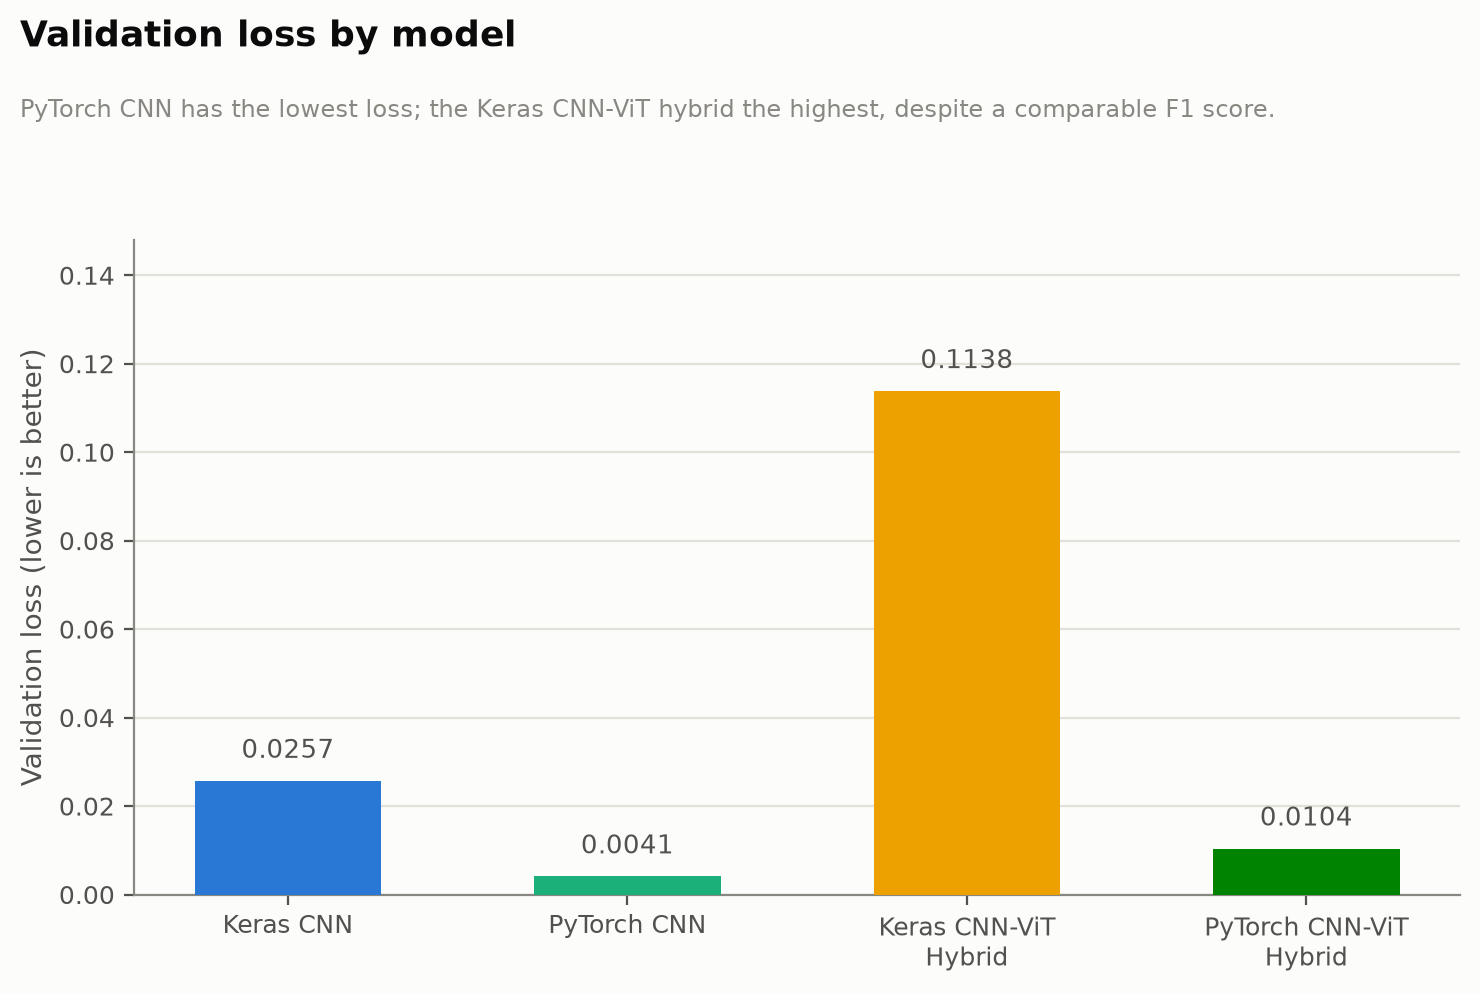
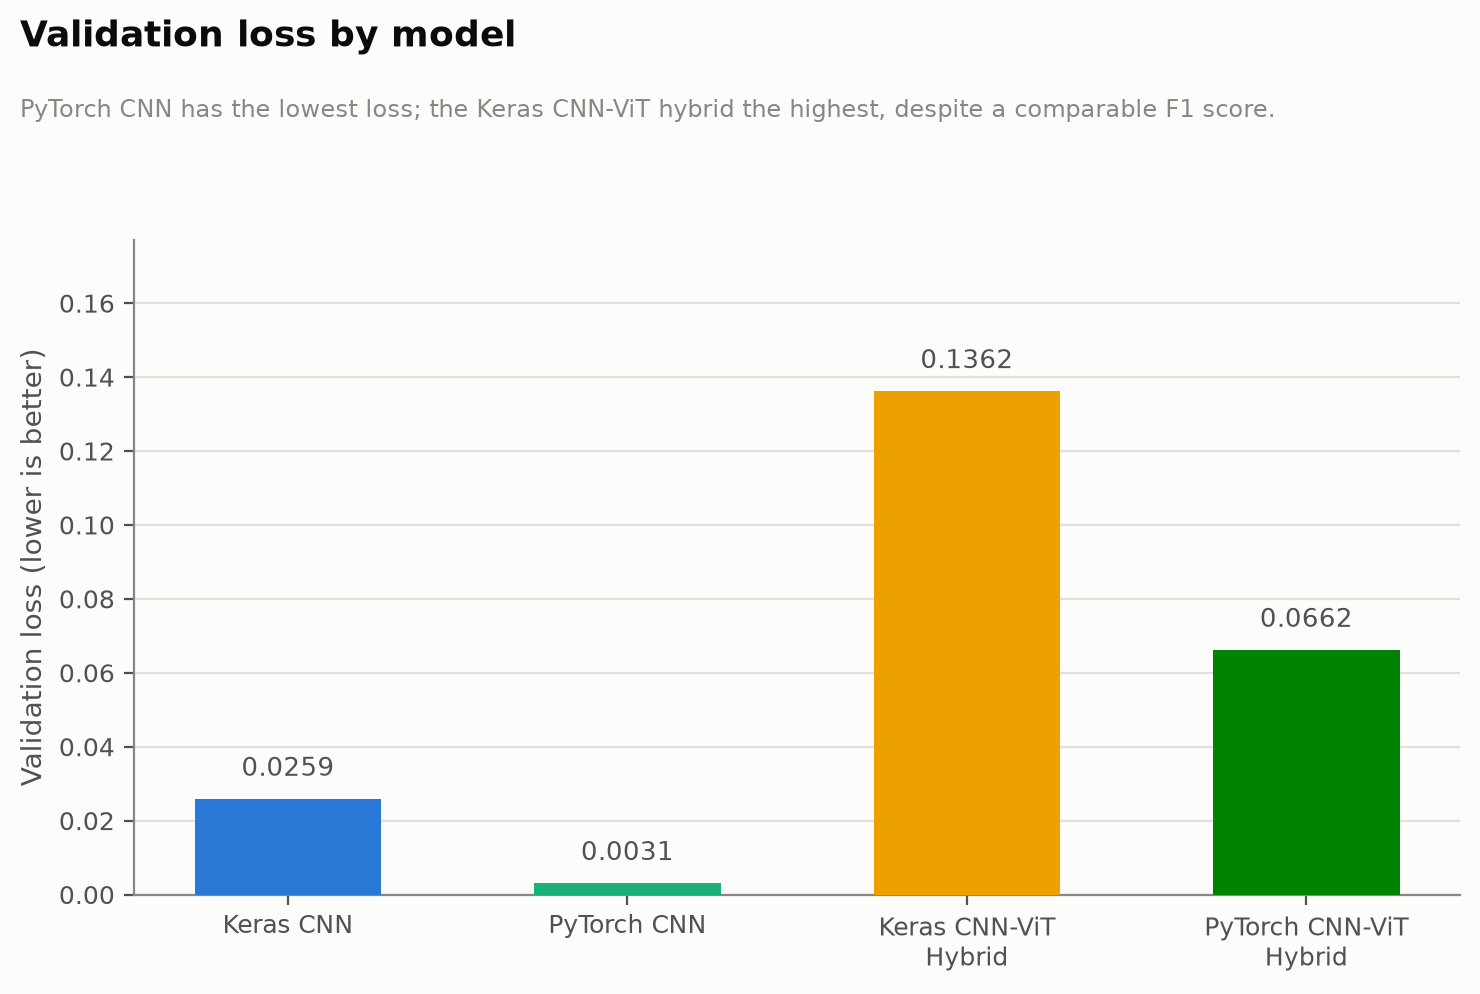
cnn-vit-satellite-image-classifier: update results from genuine retrain

diff --git a/cnn-vit-satellite-image-classifier/reports/generate_plots.py b/cnn-vit-satellite-image-classifier/reports/generate_plots.py
@@ -32,12 +32,12 @@ THEMES = {
 # held-out validation split (1,200 images, 20% of images_dataSAT).
 MODELS = ["Keras CNN", "PyTorch CNN", "Keras CNN-ViT\nHybrid", "PyTorch CNN-ViT\nHybrid"]
 METRICS = {
-    "Accuracy": [0.9933, 0.9983, 0.9942, 0.9967],
-    "Precision": [1.0000, 0.9965, 0.9966, 0.9983],
-    "Recall": [0.9867, 1.0000, 0.9917, 0.9950],
-    "F1 Score": [0.9933, 0.9983, 0.9942, 0.9967],
+    "Accuracy": [0.9925, 0.9992, 0.9917, 0.9750],
+    "Precision": [1.0000, 0.9983, 1.0000, 0.9539],
+    "Recall": [0.9850, 1.0000, 0.9833, 0.9983],
+    "F1 Score": [0.9924, 0.9991, 0.9916, 0.9756],
 }
-LOSS = [0.0257, 0.0041, 0.1138, 0.0104]
+LOSS = [0.0259, 0.0031, 0.1362, 0.0662]
 
 
 def style_axes(ax, t):
@@ -80,7 +80,8 @@ def plot_metric_comparison(theme_name):
     ax.set_xticks(x)
     ax.set_xticklabels(MODELS)
     ax.set_ylabel("Score (held-out validation split)")
-    ax.set_ylim(0.97, 1.005)
+    y_min = min(v for vals in METRICS.values() for v in vals)
+    ax.set_ylim(max(0.0, y_min - 0.02), 1.005)
     add_title(
         fig,
         "Model comparison: accuracy, precision, recall, F1",

diff --git a/cnn-vit-satellite-image-classifier/README.md b/cnn-vit-satellite-image-classifier/README.md
@@ -28,6 +28,7 @@ Binary classification of satellite image tiles as **agricultural** or **non-agri
 - Parallel Keras and PyTorch implementations for data pipelines, CNN baselines, and CNN-ViT hybrids
 - Cross-framework evaluation using accuracy, precision, recall, F1, ROC-AUC, loss, and confusion matrices
 - Held-out validation methodology: an earlier version of this project scored models against the full training set; the evaluation pipeline was corrected to score only each model's untouched validation split (see [Results](#results))
+- All four models are trained from scratch end-to-end (no pretrained weights downloaded from IBM's course storage at any stage)
 - FastAPI inference server serving all four models via a `?model=` query parameter, with Docker Compose for one-command deployment
 
 ## Repository Structure
@@ -132,26 +133,26 @@ flowchart LR
 
 | Model | Accuracy | Precision | Recall | F1 Score | ROC-AUC |
 |---|---:|---:|---:|---:|---:|
-| Keras CNN | 0.9933 | 1.0000 | 0.9867 | 0.9933 | 1.0000 |
-| PyTorch CNN | 0.9983 | 0.9965 | 1.0000 | 0.9983 | 1.0000 |
-| Keras CNN-ViT Hybrid | 0.9942 | 0.9966 | 0.9917 | 0.9942 | 0.9991 |
-| PyTorch CNN-ViT Hybrid | 0.9967 | 0.9983 | 0.9950 | 0.9967 | 0.9999 |
+| Keras CNN | 0.9925 | 1.0000 | 0.9850 | 0.9924 | 0.9999 |
+| PyTorch CNN | 0.9992 | 0.9983 | 1.0000 | 0.9991 | 1.0000 |
+| Keras CNN-ViT Hybrid | 0.9917 | 1.0000 | 0.9833 | 0.9916 | 0.9834 |
+| PyTorch CNN-ViT Hybrid | 0.9750 | 0.9539 | 0.9983 | 0.9756 | 0.9997 |
 
-The PyTorch models edged out their Keras counterparts in these runs, with the PyTorch CNN-ViT hybrid reaching 99.67% held-out accuracy.
+All four models were trained from scratch end-to-end on a GCP T4 GPU VM, with no pretrained weights downloaded from IBM's course storage at any stage. The PyTorch CNN baseline was the strongest model overall (99.92% held-out accuracy); the PyTorch CNN-ViT hybrid was the weakest (97.50%), trailing its own CNN backbone by over two points.
 
 <picture>
   <source media="(prefers-color-scheme: dark)" srcset="reports/model_metric_comparison_dark.png">
-  <img src="reports/model_metric_comparison_light.png" alt="Grouped bar chart of accuracy, precision, recall, and F1 score for all four models, y-axis zoomed to 0.97-1.005. PyTorch CNN and PyTorch CNN-ViT hybrid have the most balanced high scores; Keras CNN has the lowest recall (98.67%) despite perfect precision.">
+  <img src="reports/model_metric_comparison_light.png" alt="Grouped bar chart of accuracy, precision, recall, and F1 score for all four models. PyTorch CNN has the most balanced high scores; PyTorch CNN-ViT hybrid has the lowest precision (95.39%) and lowest accuracy/F1 of the four models.">
 </picture>
 
-All four models cluster tightly between 98.7% and 100% on every metric. The clearest separation is recall: Keras CNN misses the most positives (98.67%) despite perfect precision (100%), while PyTorch CNN has perfect recall (100%) with slightly lower precision (99.65%) -- a precision/recall trade-off in opposite directions between the two frameworks' CNN baselines.
+The CNN baselines cluster tightly at 99.2%-99.9% on every metric, but the hybrids diverge more once both are genuinely retrained: the Keras hybrid nearly matches its own CNN backbone, while the PyTorch hybrid falls noticeably behind on precision and accuracy. Both hybrids only train a randomly-initialized transformer head for a handful of epochs (3 Keras, 5 PyTorch) on top of a frozen CNN backbone, so this isn't a fully-converged comparison -- it's an honest look at what a small transfer-learning budget buys you over the CNN baseline alone.
 
 <picture>
   <source media="(prefers-color-scheme: dark)" srcset="reports/model_loss_comparison_dark.png">
-  <img src="reports/model_loss_comparison_light.png" alt="Bar chart of validation loss per model. PyTorch CNN has the lowest loss (0.0041), followed by PyTorch CNN-ViT hybrid (0.0104) and Keras CNN (0.0257); Keras CNN-ViT hybrid has the highest loss by a wide margin (0.1138).">
+  <img src="reports/model_loss_comparison_light.png" alt="Bar chart of validation loss per model. PyTorch CNN has the lowest loss (0.0031); Keras CNN-ViT hybrid has the highest loss by a wide margin (0.1362), more than double the PyTorch CNN-ViT hybrid's loss (0.0662) despite scoring higher on accuracy.">
 </picture>
 
-Loss tells a different story than the accuracy-family metrics: the Keras CNN-ViT hybrid has the highest validation loss (0.1138) by more than 4x the next-highest model, despite scoring within 0.4 points of accuracy of the others. Loss reflects prediction confidence, not just the final classification decision, so this model's correct predictions are apparently made with less margin than the other three.
+Loss tells a different story than the accuracy-family metrics: the Keras CNN-ViT hybrid has the highest validation loss (0.1362) even though its accuracy (99.17%) beats the PyTorch hybrid's (97.50%). Loss reflects prediction confidence, not just the final classification decision, so the Keras hybrid's correct predictions are apparently made with less margin than its accuracy alone suggests.
 
 > **Methodology note:** These numbers come from evaluating each model on its held-out validation split only (1,200 images, 20% of `images_dataSAT`) — the same split reserved during training and never seen by that model's weights. See [`reports/results_summary.md`](reports/results_summary.md) for the full writeup, including how that split is reconstructed and an earlier methodology issue (full-dataset evaluation leaking training images into the metrics) that this corrects.
 
@@ -228,7 +229,7 @@ Tests: `pip install -r serve/requirements.txt pytest && pytest tests/`
 
 ## Project Background
 
-This project began as an IBM/Coursera deep learning capstone sequence. It has since been reorganized into a clear Python workflow with documented results, reusable helper modules, and proper handling of large data and model artifacts — including catching and fixing a data-leakage bug in the original evaluation methodology (see [Results](#results)).
+This project began as an IBM/Coursera deep learning capstone sequence. It has since been reorganized into a clear Python workflow with documented results, reusable helper modules, and proper handling of large data and model artifacts — including catching and fixing a data-leakage bug in the original evaluation methodology (see [Results](#results)), and replacing every pretrained-checkpoint download from IBM's course storage with a genuine from-scratch training run (all four models were retrained end-to-end on a GCP T4 GPU VM).
 
 ## Future Work
 

diff --git a/cnn-vit-satellite-image-classifier/reports/results_summary.md b/cnn-vit-satellite-image-classifier/reports/results_summary.md
@@ -15,18 +15,18 @@ Classify satellite image tiles into agricultural and non-agricultural land categ
 
 | Model | Accuracy | Precision | Recall | F1 Score | ROC-AUC | Loss |
 |---|---:|---:|---:|---:|---:|---:|
-| Keras CNN | 0.9933 | 1.0000 | 0.9867 | 0.9933 | 1.0000 | 0.0257 |
-| PyTorch CNN | 0.9983 | 0.9965 | 1.0000 | 0.9983 | 1.0000 | 0.0041 |
-| Keras CNN-ViT Hybrid | 0.9942 | 0.9966 | 0.9917 | 0.9942 | 0.9991 | 0.1138 |
-| PyTorch CNN-ViT Hybrid | 0.9967 | 0.9983 | 0.9950 | 0.9967 | 0.9999 | 0.0104 |
+| Keras CNN | 0.9925 | 1.0000 | 0.9850 | 0.9924 | 0.9999 | 0.0259 |
+| PyTorch CNN | 0.9992 | 0.9983 | 1.0000 | 0.9991 | 1.0000 | 0.0031 |
+| Keras CNN-ViT Hybrid | 0.9917 | 1.0000 | 0.9833 | 0.9916 | 0.9834 | 0.1362 |
+| PyTorch CNN-ViT Hybrid | 0.9750 | 0.9539 | 0.9983 | 0.9756 | 0.9997 | 0.0662 |
 
-> **Methodology note:** These numbers come from evaluating each model on its held-out validation split only (1,200 images, 20% of `images_dataSAT`) — the same split reserved during training and never seen by that model's weights. `scripts/06_keras_vs_pytorch_cnn_comparison.py` and `scripts/09_final_cnn_vit_evaluation.py` reconstruct this split using the exact seed/`validation_split` parameters from the corresponding training script (`04`, `05`, `07`, `08`), so no training image is re-scored. Earlier versions of this table evaluated over the full 6,000-image dataset, which leaked training data into the metrics — the corrected numbers above are close to the old ones because the held-out split was already used for checkpoint selection during training, not because the leak didn't matter.
+> **Methodology note:** These numbers come from evaluating each model on its held-out validation split only (1,200 images, 20% of `images_dataSAT`) — the same split reserved during training and never seen by that model's weights. `scripts/06_keras_vs_pytorch_cnn_comparison.py` and `scripts/09_final_cnn_vit_evaluation.py` reconstruct this split using the exact seed/`validation_split` parameters from the corresponding training script (`04`, `05`, `07`, `08`), so no training image is re-scored. All four checkpoints were trained from scratch end-to-end on a GCP T4 GPU VM (20 epochs for each CNN baseline, then a frozen-backbone transformer head trained for 3 epochs Keras / 5 epochs PyTorch on top) — no pretrained weights were downloaded from IBM's course storage at any stage, unlike earlier runs of this table.
 
 ## Interpretation
 
-All models performed strongly on the balanced satellite image dataset. The PyTorch CNN and PyTorch CNN-ViT hybrid produced the highest overall scores in these recorded runs.
+The CNN baselines were already highly effective on their own — local visual patterns (color, texture) in the satellite tiles are strong indicators of agricultural land, and both frameworks' from-scratch CNNs cleared 99% accuracy on the held-out split (PyTorch CNN reached 99.92%, the strongest single model here).
 
-The CNN baselines were already highly effective, suggesting that local visual patterns in the satellite tiles are strong indicators of agricultural land. The CNN-ViT hybrids add a transformer component that can model broader spatial relationships, which is useful for land-use imagery where texture, field boundaries, and larger spatial patterns can matter together.
+Genuinely retraining the CNN-ViT hybrids (instead of fine-tuning IBM's already-tuned checkpoint) tells a more interesting story than the CNN baselines alone: the Keras hybrid held nearly steady with its CNN counterpart (99.17% accuracy), but the PyTorch hybrid dropped to 97.50% accuracy with a lower precision (95.39%) than any other model in this table. Both hybrids freeze the CNN backbone and only train a randomly-initialized transformer head, for a handful of epochs (3 Keras, 5 PyTorch) — a useful, honest data point that a from-scratch hybrid isn't automatically an improvement over the CNN baseline within this small training budget, and that the two frameworks' hybrids don't converge equally fast under it.
 
 ## Key Takeaways
 
